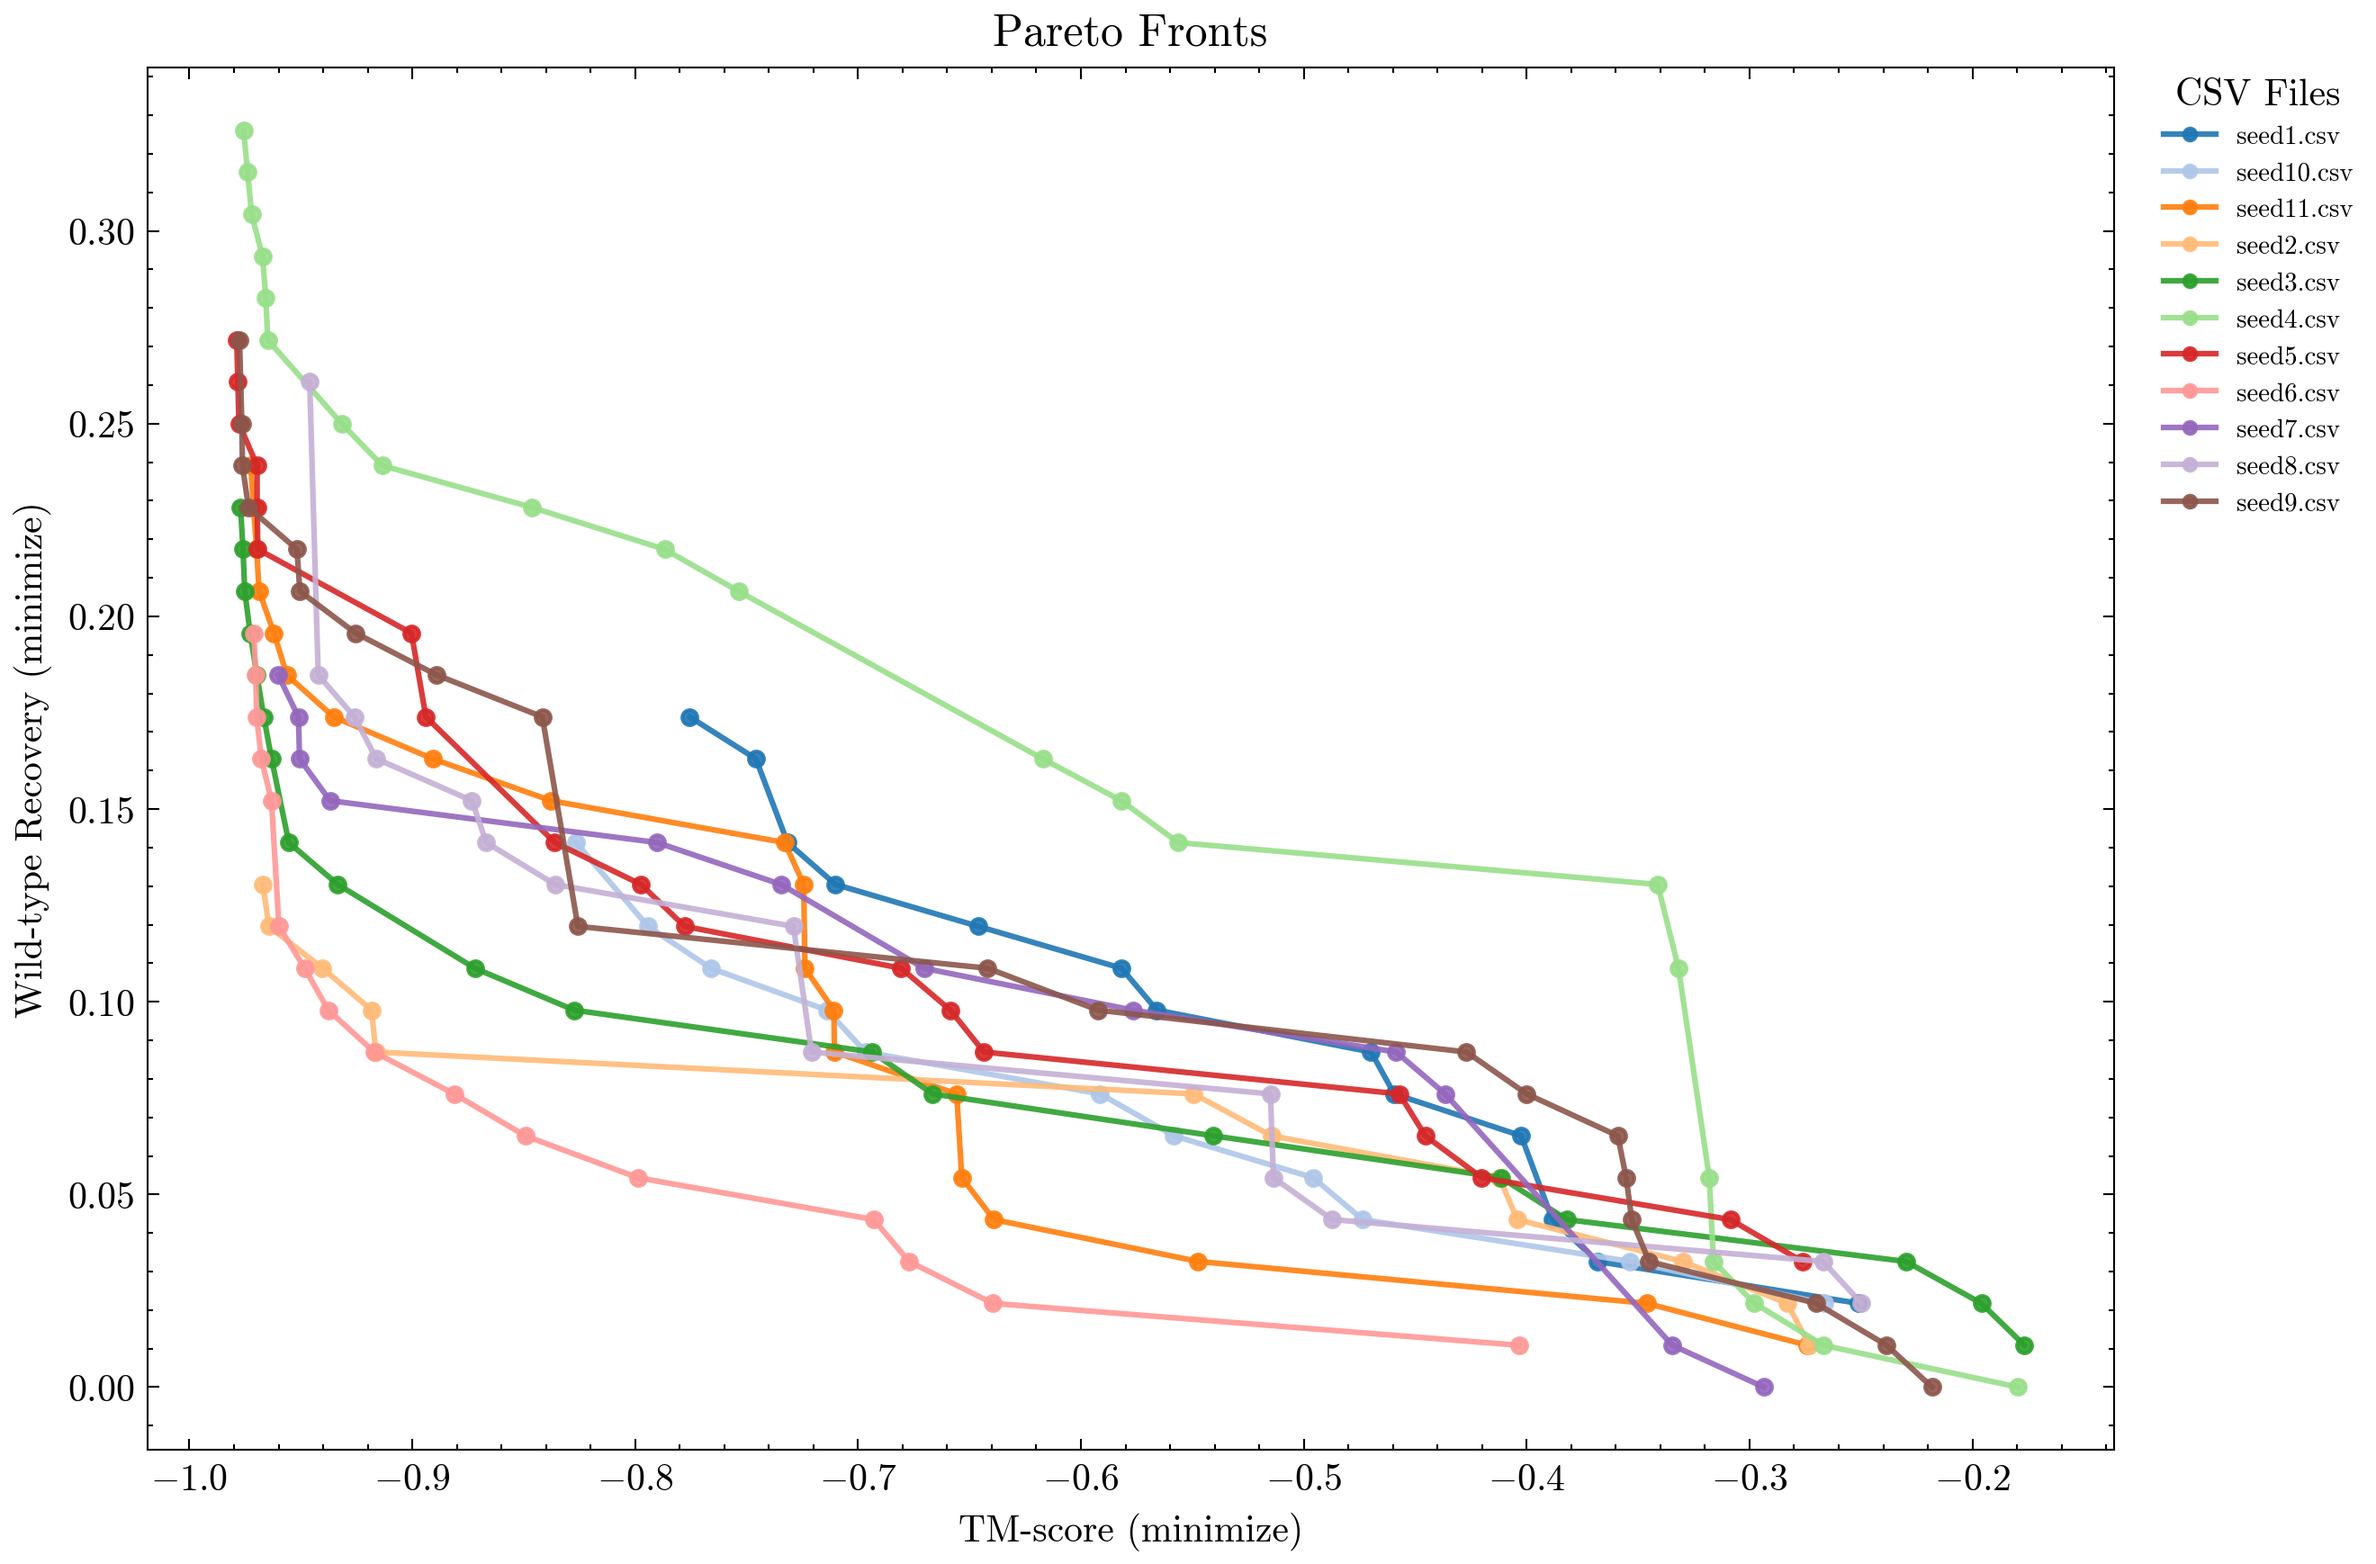
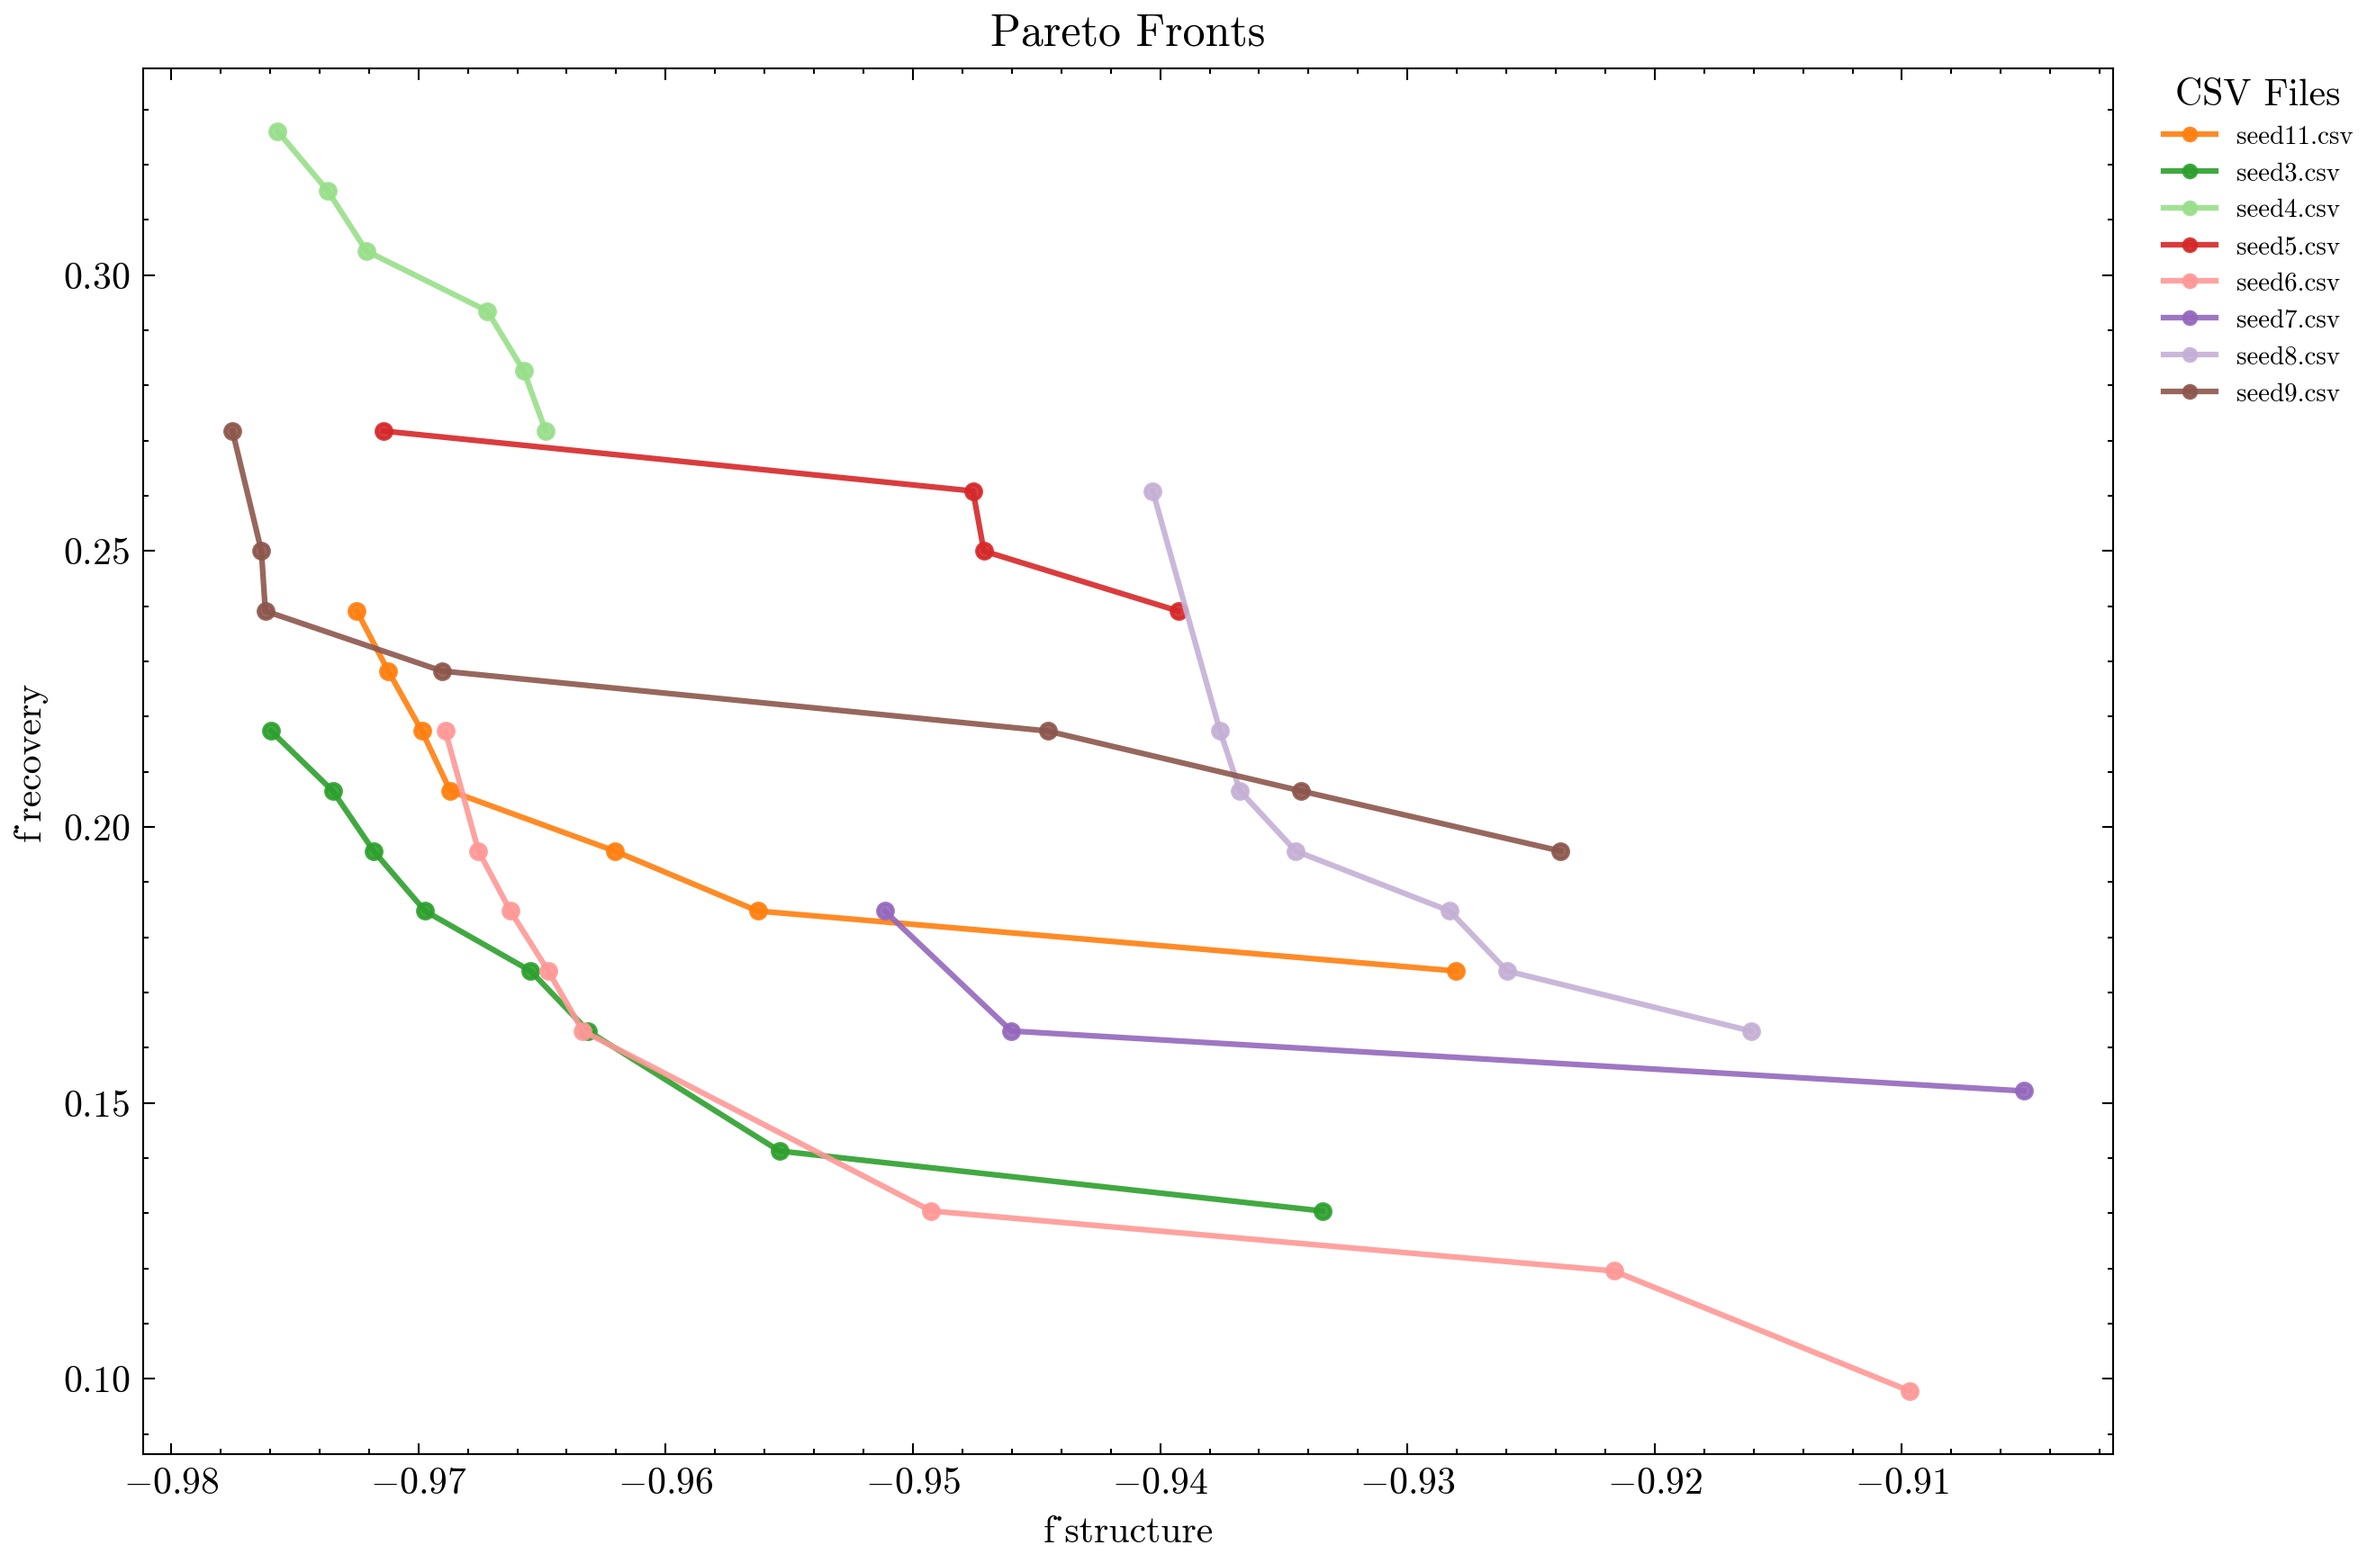
fix legends tmscore-2-fstructure

diff --git a/plot-code/Distribution_map.py b/plot-code/Distribution_map.py
@@ -92,12 +92,12 @@ for col, path in zip(colors, csv_files):
              marker='o', markersize=4, linewidth=1.5,
              alpha=0.9, color=col, label=os.path.basename(path))
 
-plt.xlabel('TM-score (minimize)')
-plt.ylabel('Wild-type Recovery (minimize)')
+plt.xlabel('f_structure')
+plt.ylabel('f_recovery')
 plt.title('Pareto Fronts')
 plt.legend(title='CSV Files', fontsize='x-small', markerscale=0.8,
            bbox_to_anchor=(1.02, 1), loc='upper left', borderaxespad=0.0)
 
 plt.tight_layout()
-plt.savefig("plot/Distribution_map.png", format="png", dpi=300)
-plt.show()
+plt.savefig("./plot/Distribution_pareto_fronts.png", format="png", dpi=300)
+# plt.show()

diff --git a/plot-code/fillter_Distribution_map.py b/plot-code/fillter_Distribution_map.py
@@ -91,12 +91,12 @@ for col, path in zip(colors, csv_files):
              marker='o', markersize=4, linewidth=1.5,
              alpha=0.9, color=col, label=os.path.basename(path))
 
-plt.xlabel('TM-score (minimize)')
-plt.ylabel('Wild-type Recovery (minimize)')
+plt.xlabel('f_structure')
+plt.ylabel('f_recovery')
 plt.title('Pareto Fronts')
 plt.legend(title='CSV Files', fontsize='x-small', markerscale=0.8,
            bbox_to_anchor=(1.02, 1), loc='upper left', borderaxespad=0.0)
 
 plt.tight_layout()
-plt.savefig("plot/Distribution_map.png", format="png", dpi=300)
-plt.show()
+plt.savefig("plot/filtered_pareto_fronts.png", format="png", dpi=300)
+# plt.show()

diff --git a/plot-code/TM-scorePlot.py b/plot-code/TM-scorePlot.py
@@ -43,12 +43,12 @@ for col, path in zip(colors, csv_files):
                  label=os.path.basename(path))
 
 plt.xlabel('time series')
-plt.ylabel('TM-score (minimize)')
+plt.ylabel('f_structure')
 plt.ylim(0, -1)
-plt.title('TM-score Best-so-far (Every 100 Steps)')
+plt.title('f_structure Best-so-far (Every 5 Generations)')
 plt.legend(fontsize='x-small', markerscale=0.8,
            bbox_to_anchor=(1.02, 1), loc='upper left', borderaxespad=0.0)
 
 plt.tight_layout()
-plt.savefig("./plot/tmscore_minima_every100.png", format="png", dpi=300)
-plt.show()
+plt.savefig("./plot/f_structure_every5gen.png", format="png", dpi=300)
+# plt.show()

diff --git a/plot-code/wtr_strip.py b/plot-code/wtr_strip.py
@@ -56,8 +56,8 @@ plt.scatter(x1, ours_min_wtr, s=40, alpha=0.8, color='tab:blue', label="Ours")
 plt.scatter(x2, pmpnn_wtr, s=24, alpha=0.5, color='tab:orange', label="proteinMPNN only")
 
 plt.xticks([1, 2], ["Ours", "proteinMPNN only"])
-plt.ylabel("Wild Type Recovery")
-plt.title("Wild Type Recovery (tmp = 0.3)")
+plt.ylabel("f_recovery")
+plt.title("f_recovery (tmp = 0.3)")
 plt.tight_layout()
 plt.savefig("./plot/wtr_Ours_pMPNNonly.png", dpi=300)
-plt.show()
+# plt.show()

diff --git a/plot-code/SSN.py b/plot-code/SSN.py
@@ -102,7 +102,7 @@ cmd = [
     "./SSNplot/pySSN_wrapper.py",
     "-i", "./SSNplot/pareto_sequences.fasta",
     "--metric", "Levenshtein",
-    "--reducer", "UMAP",
+    "--reducer", "tSNE",
     "--grouping", "./SSNplot/seq_groupnames.txt"
 ]
 
